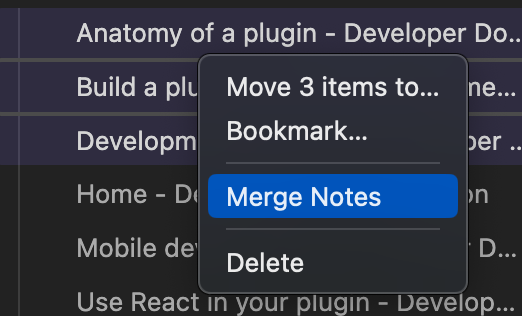
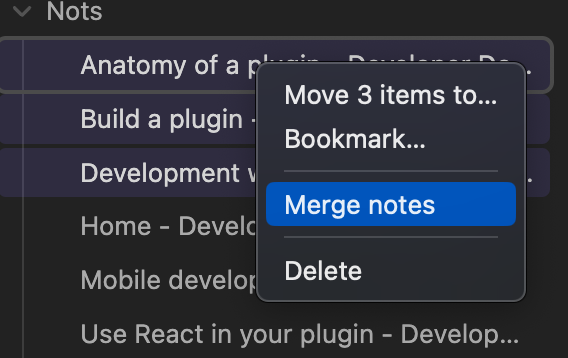
Fixed to follow Use sentence case in UI.

diff --git a/main.ts b/main.ts
@@ -6,7 +6,7 @@ export default class MergeNotesPlugin extends Plugin {
 		this.registerEvent(
 			this.app.workspace.on("files-menu", (menu, files) => {
 				menu.addItem((item) => {
-					item.setTitle("Merge Notes").onClick(async () => {
+					item.setTitle("Merge notes").onClick(async () => {
 						new MergeNotesModal(this.app, files as TFile[]).open();
 					});
 				});

diff --git a/src/components/MergeNotesModal.tsx b/src/components/MergeNotesModal.tsx
@@ -23,7 +23,7 @@ export class MergeNotesModal extends Modal {
 	onOpen() {
 		const isContainFolder = this.files.some((file) => !file.stat);
 		if (isContainFolder) {
-			new Notice("Merge Notes does not support folders.");
+			new Notice("Merge notes does not support folders.");
 			this.close();
 			return;
 		}

diff --git a/src/components/Files.tsx b/src/components/Files.tsx
@@ -143,7 +143,7 @@ export const Files = (props: any) => {
 			</div>
 			<div className="explain">*drag and drop to change order</div>
 			<div className="button">
-				<button onClick={mergeNotes}>Merge Notes</button>
+				<button onClick={mergeNotes}>Merge notes</button>
 			</div>
 		</div>
 	);

diff --git a/README.md b/README.md
@@ -6,7 +6,7 @@
 
 Select the notes you want to merge in the file explorer.
 
-Right click on the selection and select `Merge Notes`.
+Right click on the selection and select `Merge notes`.
 
 <img src="resources/image01.png" width="200">
 
@@ -22,7 +22,7 @@ Notes to be merged can be rearranged by drag-and-drop.
 
 <img src="resources/image04.png" width="480">
 
-Click the `Merge Notes` button to execute the merge.
+Click the `Merge notes` button to execute the merge.
 
 <img src="resources/image05.png" width="120">
 
